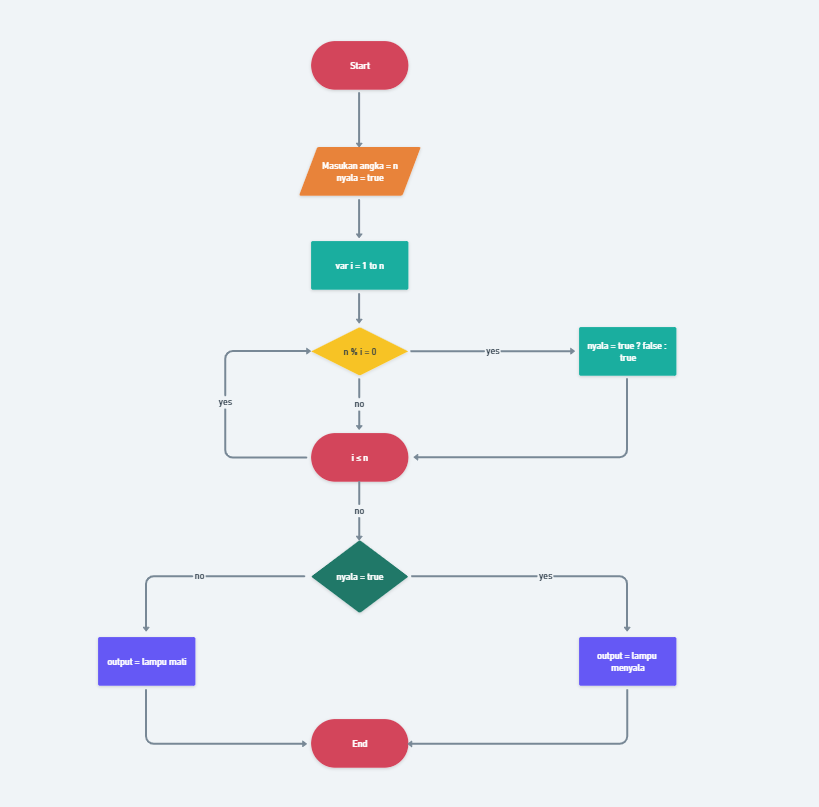
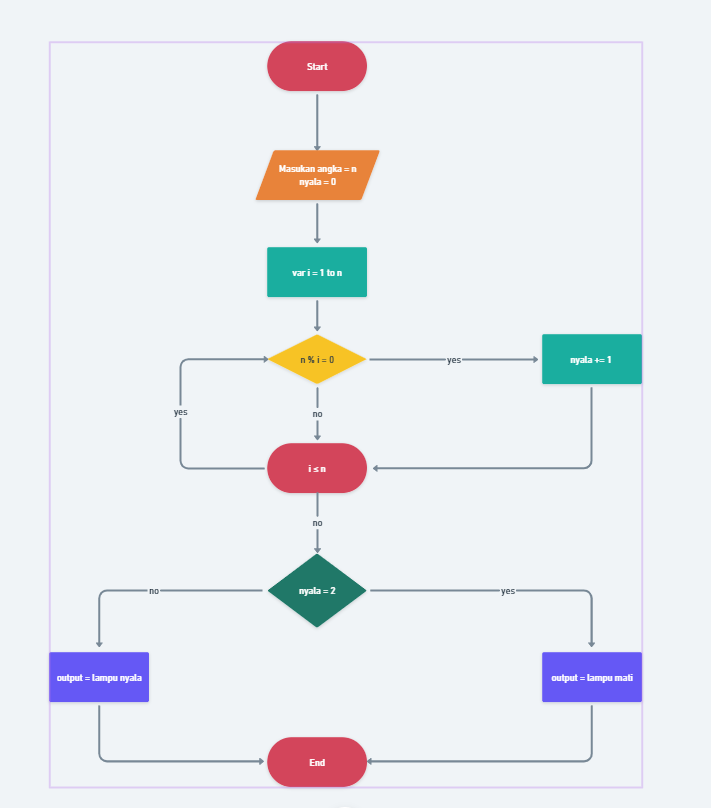
algorithm

Changed region(s): [[0.1547, 0.031, 0.9283, 0.9913], [0.0619, 0.7435, 0.2475, 0.9294], [0.3713, 0.031, 0.4023, 0.1239]]

diff --git a/10_algorithm/lampu.js b/10_algorithm/lampu.js
@@ -1,0 +1,16 @@
+const lampu = (val) => {
+    let bil = 0
+    
+    for (let x=1; x<=val; x++) {
+        if (val % x == 0) {
+            bil += 1
+        }
+    }
+    
+    return bil == 2 ? "lampu mati" : "lampu nyala"  
+}
+
+console.log(lampu(1))
+console.log(lampu(2))
+console.log(lampu(3))
+console.log(lampu(4))

diff --git a/10_algorithm/prima.js b/10_algorithm/prima.js
@@ -1,0 +1,16 @@
+const prima = (val) => {
+    let bil = 0
+    
+    for (let x=1; x<=val; x++) {
+        if (val % x == 0) {
+            bil += 1
+        }
+    }
+    
+    return bil == 2 ? "prima" : "bukan prima"  
+}
+
+console.log(prima(1))
+console.log(prima(2))
+console.log(prima(3))
+console.log(prima(4))
